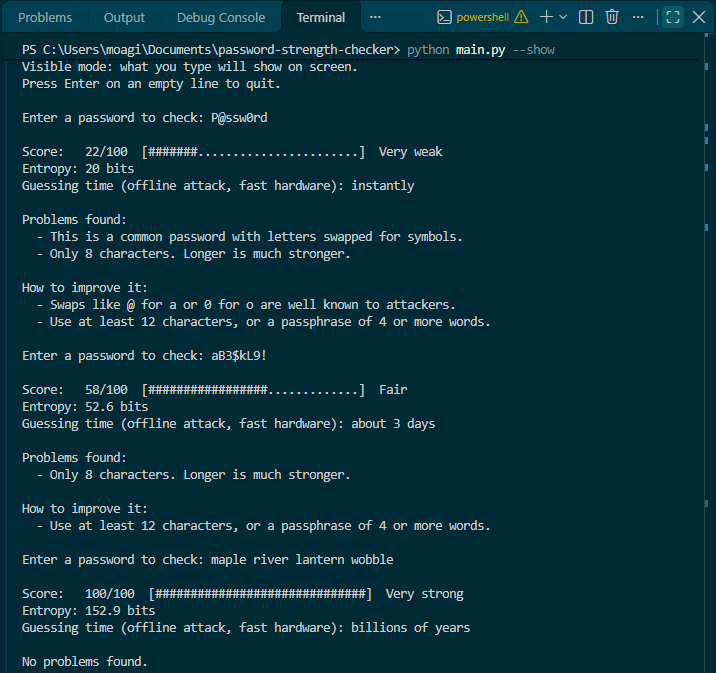
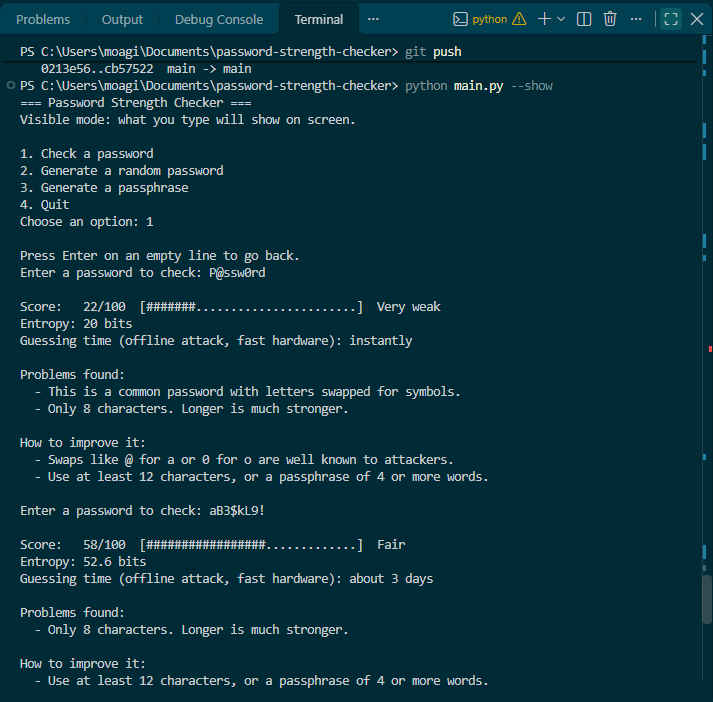
Add README with scoring explanation and limitations

diff --git a/README.md b/README.md
@@ -1,2 +1,81 @@
-# password-strength-checker
-A Python command-line tool that scores password strength, explains weaknesses and generates secure passwords.
+# Password Strength Checker
+
+A Python command-line tool that scores how strong a password is, explains what is wrong with it, and generates secure random passwords and passphrases.
+
+![Demo of the program](docs/demo.png)
+
+## Features
+
+- **Strength score** from 0 to 100, with a rating from Very weak to Very strong
+- **Weakness detection**, explained in plain English with suggestions:
+  - common passwords, including a sample list of 54 and variations like `Password99!`
+  - symbol swaps such as `P@ssw0rd`
+  - keyboard and alphabet runs such as `qwer`, `4321` or `abcd`
+  - repeated characters such as `aaa`
+  - a year added to the end, such as `Summer2024`
+  - passwords shorter than 12 characters
+- **Guessing-time estimate** for an offline attack
+- **Secure generator** for random passwords (8 to 64 characters, always with upper case, lower case, a number and a symbol) and word-based passphrases
+- **36 automated tests**
+- Uses only the Python standard library, with nothing to install
+
+## How the score works
+
+1. The password's **character pool** is worked out (lower case, upper case, digits, symbols), and its strength in bits is estimated as `length x log2(pool size)`.
+2. Bits are **subtracted** for known weaknesses. A common password is capped at 12 bits, a symbol-swapped one at 20 bits, and sequences, repeats and a trailing year each cost further bits.
+3. The result is converted to a **0 to 100 score** (90 bits counts as a full score).
+4. The guessing time assumes **10 billion guesses per second**, which is an attacker with fast hardware and a weak hash.
+
+Generated passwords and passphrases use Python's `secrets` module, which draws from the operating system's secure random source. The `random` module is predictable and unsuitable for this.
+
+## Privacy
+
+Everything runs on your own computer. Nothing is saved, logged or sent anywhere. By default what you type is hidden with `getpass`.
+
+## How to run
+
+Requires Python 3.8 or newer.
+
+```
+git clone https://github.com/Agi07/password-strength-checker.git
+cd password-strength-checker
+python main.py
+```
+
+Add `--show` to make typed passwords visible (useful for demos):
+
+```
+python main.py --show
+```
+
+## Run the tests
+
+```
+python -m unittest -v
+```
+
+## Project structure
+
+```
+checker.py              analysis, scoring and weakness detection
+generator.py            secure password and passphrase generation
+main.py                 command-line menu
+test_password_tools.py  automated tests
+```
+
+## Limitations
+
+This is a learning project. For real use, a mature tool such as zxcvbn is more accurate.
+
+- **Passphrases are rated too generously.** The checker treats text as random characters and does not know about words, so a phrase made of a few dictionary words can score higher than it deserves. The generator reports the real randomness for the passphrases it makes.
+- **The common-password list is small** (54 entries). Real tools check millions of leaked passwords.
+- **The passphrase word list has 256 words** (8 bits per word). Standard Diceware lists have 7,776 words (about 12.9 bits per word), so six words from a Diceware list are much stronger than six from this one.
+- **The guessing time is an estimate.** It assumes a fast offline attack. Online login attempts, slow hashing and rate limits make real attacks much harder.
+- **It checks only what it is programmed to find.** A password can pass every check and still be weak, for example one based on personal details.
+- **Never type a password you actually use** into any tool you do not fully trust.
+
+## What I learned
+
+How password entropy is estimated and why length matters most, why attackers try patterns and common words first, why `secrets` must be used instead of `random` for security, and how to be honest about what a tool can and cannot do.
+
+Built by Moagi Makhudu, BSc Information Technology student.
